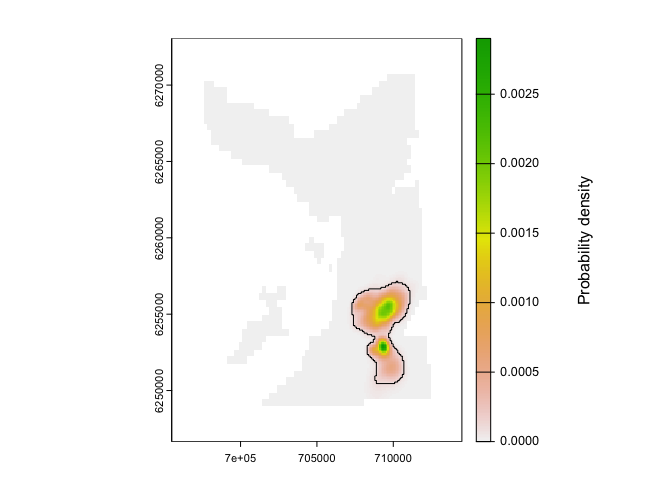
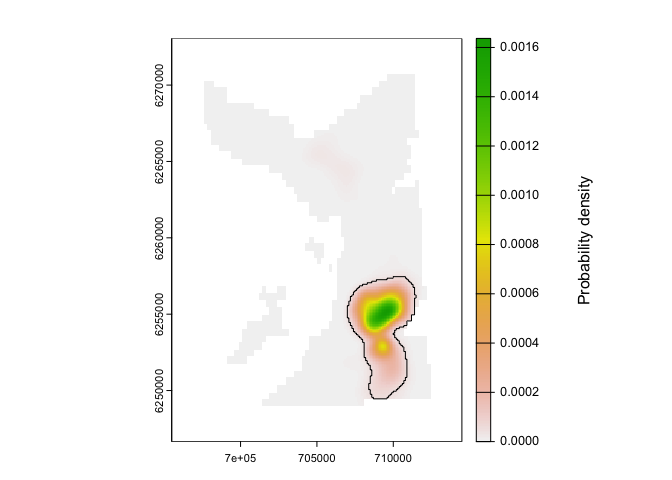
Speed up README

diff --git a/README.md b/README.md
@@ -353,7 +353,7 @@ xinit = simulate_states_init(map             = env_init,
                              model_move      = model_move, 
                              datasets        = datasets_fwd,
                              model_obs_types = model_obs_types,
-                             n_particle      = 20_000, 
+                             n_particle      = 2000, 
                              direction       = "forward", 
                              output          = "Vector");
 
@@ -373,7 +373,7 @@ xinit = simulate_states_init(map             = env_init,
                              model_move      = model_move, 
                              datasets        = datasets_bwd,
                              model_obs_types = model_obs_types,
-                             n_particle      = 20_000, 
+                             n_particle      = 2000, 
                              direction       = "backward", 
                              output          = "Vector");
 
@@ -390,60 +390,123 @@ The filter returns a `NamedTuple` that defines the time steps of the
 simulation, the simulated `State`s and other algorithm diagnostics.
 
 ``` julia
-fwd 
-#> Patter.Particles(StateXY[StateXY(45.86025619506836, 709442.1497468759, 6.253006886936354e6) StateXY(44.46761703491211, 709332.1390635285, 6.252801146476332e6) … StateXY(161.7117919921875, 708114.3959652106, 6.255127655122086e6) StateXY(181.935302734375, 708769.6451302449, 6.255796490835802e6); StateXY(84.4729232788086, 709242.1497468759, 6.253506886936354e6) StateXY(68.53315734863281, 709242.1423982539, 6.253292068158658e6) … StateXY(194.80943298339844, 707801.5033526948, 6.255366971646948e6) StateXY(167.0137939453125, 708604.2128538049, 6.255100657586215e6); … ; StateXY(52.994747161865234, 709242.1497468759, 6.253006886936354e6) StateXY(47.834678649902344, 709259.8437022136, 6.252899700530086e6) … StateXY(184.45875549316406, 708772.2614253716, 6.255958962564314e6) StateXY(161.7117919921875, 708099.0028210192, 6.25512253584319e6); StateXY(55.42852783203125, 709442.1497468759, 6.253406886936354e6) StateXY(46.084407806396484, 709122.7430863595, 6.252603630971435e6) … StateXY(180.6695556640625, 708052.3013590107, 6.255278958512679e6) StateXY(198.59591674804688, 708290.0902363085, 6.25579496191721e6)], 720×4 DataFrame
-#>  Row │ timestep  timestamp            ess        maxlp
-#>      │ Int64     DateTime             Float64    Float64
-#> ─────┼──────────────────────────────────────────────────────
-#>    1 │        1  2016-03-17T01:50:00   8632.84     -4.93421
-#>    2 │        2  2016-03-17T01:52:00   4290.88     -9.84869
-#>    3 │        3  2016-03-17T01:54:00   2529.52    -14.7808
-#>    4 │        4  2016-03-17T01:56:00   1656.77    -19.7892
-#>    5 │        5  2016-03-17T01:58:00    990.413   -24.9454
-#>    6 │        6  2016-03-17T02:00:00  13476.5      -4.89552
-#>    7 │        7  2016-03-17T02:02:00   8417.5      -9.51912
-#>    8 │        8  2016-03-17T02:04:00   5701.01    -14.9398
-#>   ⋮  │    ⋮               ⋮               ⋮          ⋮
-#>  714 │      714  2016-03-18T01:36:00   5437.28   -102.667
-#>  715 │      715  2016-03-18T01:38:00   4906.03   -107.348
-#>  716 │      716  2016-03-18T01:40:00   4427.57   -112.013
-#>  717 │      717  2016-03-18T01:42:00   4007.73   -116.672
-#>  718 │      718  2016-03-18T01:44:00   3705.9    -121.407
-#>  719 │      719  2016-03-18T01:46:00   3437.94   -126.078
-#>  720 │      720  2016-03-18T01:48:00   3176.48   -130.749
-#>                                             705 rows omitted, 1×6 DataFrame
-#>  Row │ timestamp                routine          n_particle  n_iter  convergen ⋯
-#>      │ DateTime                 String           Int64       Int64   Bool      ⋯
-#> ─────┼──────────────────────────────────────────────────────────────────────────
-#>    1 │ 2025-02-12T22:12:47.147  filter: forward       20000       1         tr ⋯
-#>                                                                2 columns omitted)
-bwd
-#> Patter.Particles(StateXY[StateXY(49.4275016784668, 709324.1163580867, 6.253028124107477e6) StateXY(68.53315734863281, 709241.3948847565, 6.253342095053049e6) … StateXY(138.89321899414062, 706722.7448082464, 6.249915966639847e6) StateXY(173.4532470703125, 708642.1497468759, 6.256906886936354e6); StateXY(41.503028869628906, 709585.2438444953, 6.2528651300111655e6) StateXY(74.88350677490234, 709036.702483497, 6.25307183254941e6) … StateXY(191.70333862304688, 708767.7636548029, 6.256542599757547e6) StateXY(158.78671264648438, 710142.1497468759, 6.269206886936354e6); … ; StateXY(80.03239440917969, 709130.1679870245, 6.253335135064113e6) StateXY(49.4275016784668, 709373.6902113371, 6.253015510400326e6) … StateXY(156.60055541992188, 708295.4359693856, 6.255025663692517e6) StateXY(186.96072387695312, 708342.1497468759, 6.267806886936354e6); StateXY(68.53315734863281, 709260.0354130833, 6.25330259580512e6) StateXY(52.982757568359375, 709357.0268316997, 6.25310554681857e6) … StateXY(175.41598510742188, 708388.3795827446, 6.266007418013366e6) StateXY(189.5762176513672, 708542.1497468759, 6.267606886936354e6)], 720×4 DataFrame
+# Forward run outputs
+fwd.states
+#> 1000×720 Matrix{StateXY}:
+#>  StateXY(45.8829, 7.09342e5, 6.25291e6)  …  StateXY(188.847, 708556.0, 6.25564e6)
+#>  StateXY(66.5209, 7.09142e5, 6.25311e6)     StateXY(197.758, 7.08354e5, 6.25569e6)
+#>  StateXY(41.503, 7.09542e5, 6.25291e6)      StateXY(148.489, 7.08357e5, 6.25413e6)
+#>  StateXY(83.2153, 7.09042e5, 6.25321e6)     StateXY(185.685, 7.07762e5, 6.25459e6)
+#>  StateXY(36.0976, 7.09742e5, 6.25271e6)     StateXY(156.188, 707140.0, 6.25435e6)
+#>  StateXY(139.183, 7.08642e5, 6.25351e6)  …  StateXY(154.859, 7.08873e5, 6.25503e6)
+#>  StateXY(46.8558, 7.08942e5, 6.25251e6)     StateXY(194.684, 7.07544e5, 6.25516e6)
+#>  StateXY(46.5354, 7.09242e5, 6.25281e6)     StateXY(193.147, 7.08309e5, 6.25625e6)
+#>  StateXY(58.245, 7.09042e5, 6.25291e6)      StateXY(191.794, 7.07576e5, 6.25459e6)
+#>  StateXY(84.4729, 7.09242e5, 6.25351e6)     StateXY(143.758, 7.0913e5, 6.25544e6)
+#>  ⋮                                       ⋱  
+#>  StateXY(60.0933, 7.09342e5, 6.25331e6)     StateXY(157.43, 708992.0, 6.25539e6)
+#>  StateXY(68.5332, 7.09242e5, 6.25331e6)     StateXY(179.343, 7.07264e5, 6.25473e6)
+#>  StateXY(55.2068, 7.09642e5, 6.25361e6)     StateXY(199.453, 707926.0, 6.25602e6)
+#>  StateXY(56.538, 7.09342e5, 6.25321e6)      StateXY(186.857, 7.08449e5, 6.25551e6)
+#>  StateXY(45.8603, 7.09442e5, 6.25301e6)  …  StateXY(162.852, 7.08859e5, 6.25523e6)
+#>  StateXY(53.0317, 7.09142e5, 6.25291e6)     StateXY(168.835, 7.08599e5, 6.25697e6)
+#>  StateXY(51.6534, 7.09442e5, 6.25331e6)     StateXY(192.736, 7.0906e5, 6.25679e6)
+#>  StateXY(45.8829, 7.09342e5, 6.25291e6)     StateXY(151.282, 7.08221e5, 6.25496e6)
+#>  StateXY(59.7652, 7.09142e5, 6.25301e6)     StateXY(135.019, 7.0876e5, 6.25355e6)
+fwd.diagnostics
+#> 720×4 DataFrame
 #>  Row │ timestep  timestamp            ess       maxlp
 #>      │ Int64     DateTime             Float64   Float64
 #> ─────┼────────────────────────────────────────────────────
-#>    1 │        1  2016-03-17T01:50:00    629.83  -36.0651
-#>    2 │        2  2016-03-17T01:52:00   1039.02  -31.1403
-#>    3 │        3  2016-03-17T01:54:00   1812.93  -25.9866
-#>    4 │        4  2016-03-17T01:56:00   2935.19  -20.2427
-#>    5 │        5  2016-03-17T01:58:00   4716.56  -14.6123
-#>    6 │        6  2016-03-17T02:00:00   7527.78   -9.60555
-#>    7 │        7  2016-03-17T02:02:00   9471.85   -4.54043
-#>    8 │        8  2016-03-17T02:04:00    663.9   -39.7029
+#>    1 │        1  2016-03-17T01:50:00   871.187   -4.93421
+#>    2 │        2  2016-03-17T01:52:00  1271.23    -4.91272
+#>    3 │        3  2016-03-17T01:54:00   778.974   -9.82767
+#>    4 │        4  2016-03-17T01:56:00   951.343   -4.55033
+#>    5 │        5  2016-03-17T01:58:00   968.929   -4.91832
+#>    6 │        6  2016-03-17T02:00:00  1318.74    -4.90221
+#>    7 │        7  2016-03-17T02:02:00   823.489   -9.58653
+#>    8 │        8  2016-03-17T02:04:00   933.039   -4.92097
 #>   ⋮  │    ⋮               ⋮              ⋮          ⋮
-#>  714 │      714  2016-03-18T01:36:00   9878.34  -32.6128
-#>  715 │      715  2016-03-18T01:38:00  10266.6   -27.9485
-#>  716 │      716  2016-03-18T01:40:00  11050.2   -23.2906
-#>  717 │      717  2016-03-18T01:42:00  12267.2   -18.6321
-#>  718 │      718  2016-03-18T01:44:00  13956.5   -13.974
-#>  719 │      719  2016-03-18T01:46:00  16005.6    -9.31601
-#>  720 │      720  2016-03-18T01:48:00  18811.5    -4.658
-#>                                           705 rows omitted, 1×6 DataFrame
+#>  714 │      714  2016-03-18T01:36:00  1358.2    -37.2712
+#>  715 │      715  2016-03-18T01:38:00  1242.68   -41.9696
+#>  716 │      716  2016-03-18T01:40:00  1115.1    -46.6278
+#>  717 │      717  2016-03-18T01:42:00  1008.86   -51.2927
+#>  718 │      718  2016-03-18T01:44:00   930.228  -55.9539
+#>  719 │      719  2016-03-18T01:46:00  1898.44    -4.658
+#>  720 │      720  2016-03-18T01:48:00  1783.25    -9.31601
+#>                                           705 rows omitted
+fwd.callstats
+#> 1×6 DataFrame
+#>  Row │ timestamp                routine          n_particle  n_iter  convergen ⋯
+#>      │ DateTime                 String           Int64       Int64   Bool      ⋯
+#> ─────┼──────────────────────────────────────────────────────────────────────────
+#>    1 │ 2025-02-12T22:37:48.450  filter: forward        2000       1         tr ⋯
+#>                                                                2 columns omitted
+fwd.callstats.convergence
+#> 1-element Vector{Bool}:
+#>  1
+fwd.callstats.time
+#> 1-element Vector{Float64}:
+#>  0.648
+
+# Backward run outputs
+bwd.states
+#> 1000×720 Matrix{StateXY}:
+#>  StateXY(1.85675e-314, 2.51161e-314, 2.75044e-314)  …  StateXY(176.919, 7.07942e5, 6.26601e6)
+#>  StateXY(2.17775e-314, 1.97536e-317, 0.0)              StateXY(178.939, 7.09242e5, 6.26781e6)
+#>  StateXY(-1.2162e6, -1.21608e6, -1.21596e6)            StateXY(180.867, 7.09042e5, 6.26631e6)
+#>  StateXY(-1.21584e6, -1.21572e6, -1.2156e6)            StateXY(132.345, 7.11142e5, 6.27061e6)
+#>  StateXY(-1.21548e6, -1.21536e6, -1.21524e6)           StateXY(149.448, 7.09242e5, 6.25831e6)
+#>  StateXY(-1.21512e6, -1.215e6, -1.21488e6)          …  StateXY(155.992, 7.09842e5, 6.26861e6)
+#>  StateXY(-1.21476e6, -1.21464e6, -1.21452e6)           StateXY(191.569, 7.07442e5, 6.26681e6)
+#>  StateXY(-1.2144e6, -1.21428e6, -1.21416e6)            StateXY(178.48, 7.07342e5, 6.26711e6)
+#>  StateXY(-1.21404e6, -1.21392e6, -1.2138e6)            StateXY(183.963, 7.07542e5, 6.26721e6)
+#>  StateXY(-1.21368e6, -1.21356e6, -1.21344e6)           StateXY(144.53, 7.06742e5, 6.25011e6)
+#>  ⋮                                                  ⋱  
+#>  StateXY(-860160.0, -860040.0, -859920.0)              StateXY(162.061, 7.07942e5, 6.26531e6)
+#>  StateXY(-859800.0, -859680.0, -859560.0)              StateXY(190.686, 7.08342e5, 6.26681e6)
+#>  StateXY(-859440.0, -859320.0, -859200.0)              StateXY(186.824, 7.08642e5, 6.25571e6)
+#>  StateXY(-859080.0, -858960.0, -858840.0)              StateXY(167.287, 7.08242e5, 6.26821e6)
+#>  StateXY(-858720.0, -858600.0, -858480.0)           …  StateXY(188.622, 7.08842e5, 6.25691e6)
+#>  StateXY(-858360.0, -858240.0, -858120.0)              StateXY(191.973, 7.06142e5, 6.24931e6)
+#>  StateXY(-858000.0, -857880.0, -857760.0)              StateXY(181.723, 7.08342e5, 6.25641e6)
+#>  StateXY(-857640.0, -857520.0, -857400.0)              StateXY(186.239, 7.08642e5, 6.26641e6)
+#>  StateXY(-857280.0, -857160.0, -857040.0)              StateXY(148.615, 7.04442e5, 6.24911e6)
+bwd.diagnostics
+#> 720×4 DataFrame
+#>  Row │ timestep  timestamp            ess       maxlp
+#>      │ Int64     DateTime             Float64   Float64
+#> ─────┼────────────────────────────────────────────────────
+#>    1 │        1  2016-03-17T01:50:00   NaN      NaN
+#>    2 │        2  2016-03-17T01:52:00   NaN      NaN
+#>    3 │        3  2016-03-17T01:54:00   NaN      NaN
+#>    4 │        4  2016-03-17T01:56:00   NaN      NaN
+#>    5 │        5  2016-03-17T01:58:00   NaN      NaN
+#>    6 │        6  2016-03-17T02:00:00   NaN      NaN
+#>    7 │        7  2016-03-17T02:02:00   NaN      NaN
+#>    8 │        8  2016-03-17T02:04:00   NaN      NaN
+#>   ⋮  │    ⋮               ⋮              ⋮          ⋮
+#>  714 │      714  2016-03-18T01:36:00  1025.64   -32.6163
+#>  715 │      715  2016-03-18T01:38:00  1062.47   -27.9509
+#>  716 │      716  2016-03-18T01:40:00  1144.41   -23.2914
+#>  717 │      717  2016-03-18T01:42:00  1259.77   -18.6324
+#>  718 │      718  2016-03-18T01:44:00  1435.05   -13.974
+#>  719 │      719  2016-03-18T01:46:00  1625.19    -9.31601
+#>  720 │      720  2016-03-18T01:48:00  1884.65    -4.658
+#>                                           705 rows omitted
+bwd.callstats
+#> 1×6 DataFrame
 #>  Row │ timestamp                routine           n_particle  n_iter  converge ⋯
 #>      │ DateTime                 String            Int64       Int64   Bool     ⋯
 #> ─────┼──────────────────────────────────────────────────────────────────────────
-#>    1 │ 2025-02-12T22:12:49.063  filter: backward       20000       1         t ⋯
-#>                                                                2 columns omitted)
+#>    1 │ 2025-02-12T22:37:49.249  filter: backward        2000       1        fa ⋯
+#>                                                                2 columns omitted
+bwd.callstats.convergence
+#> 1-element Vector{Bool}:
+#>  0
+bwd.callstats.time
+#> 1-element Vector{Float64}:
+#>  0.352
 ```
 
 ## Particle smoother
@@ -460,34 +523,68 @@ smo = particle_smoother_two_filter(timeline   = timeline,
                                    xfwd       = fwd.states[1:n_particle, :],
                                    xbwd       = bwd.states[1:n_particle, :],
                                    model_move = model_move,
-                                   n_sim      = 100);
-smo
-#> Patter.Particles(StateXY[StateXY(49.4275016784668, 709324.1163580867, 6.253028124107477e6) StateXY(91.54701232910156, 709078.0004575436, 6.253311913556286e6) … StateXY(150.06092834472656, 708160.3289271451, 6.254332516569155e6) StateXY(181.935302734375, 708769.6451302449, 6.255796490835802e6); StateXY(41.503028869628906, 709585.2438444953, 6.2528651300111655e6) StateXY(63.35368728637695, 709214.4805125415, 6.2532249261305975e6) … StateXY(198.8185272216797, 708183.017069019, 6.255871241093533e6) StateXY(167.0137939453125, 708604.2128538049, 6.255100657586215e6); … ; StateXY(48.40016174316406, 709163.4728786222, 6.25271263937561e6) StateXY(45.8829460144043, 709357.9380403345, 6.252939584043968e6) … StateXY(166.38294982910156, 708444.2746647486, 6.2551082914978415e6) StateXY(183.91612243652344, 707468.1932861817, 6.254355097287358e6); StateXY(47.79129409790039, 709430.136972388, 6.253122266539449e6) StateXY(68.53315734863281, 709258.605438284, 6.253340363569799e6) … StateXY(198.90406799316406, 707831.8869685325, 6.255975063517972e6) StateXY(185.88182067871094, 708081.4631690378, 6.255362176468334e6)], 720×4 DataFrame
+                                   vmap       = nothing,
+                                   n_sim      = 100, 
+                                   cache      = true);
+
+# Smooth outputs
+smo.states
+#> 750×720 Matrix{StateXY}:
+#>  StateXY(1.85675e-314, 2.51161e-314, 2.75044e-314)  …  StateXY(188.847, 708556.0, 6.25564e6)
+#>  StateXY(2.17775e-314, 1.97536e-317, 0.0)              StateXY(197.758, 7.08354e5, 6.25569e6)
+#>  StateXY(-1.2162e6, -1.21608e6, -1.21596e6)            StateXY(148.489, 7.08357e5, 6.25413e6)
+#>  StateXY(-1.21584e6, -1.21572e6, -1.2156e6)            StateXY(185.685, 7.07762e5, 6.25459e6)
+#>  StateXY(-1.21548e6, -1.21536e6, -1.21524e6)           StateXY(156.188, 707140.0, 6.25435e6)
+#>  StateXY(-1.21512e6, -1.215e6, -1.21488e6)          …  StateXY(154.859, 7.08873e5, 6.25503e6)
+#>  StateXY(-1.21476e6, -1.21464e6, -1.21452e6)           StateXY(194.684, 7.07544e5, 6.25516e6)
+#>  StateXY(-1.2144e6, -1.21428e6, -1.21416e6)            StateXY(193.147, 7.08309e5, 6.25625e6)
+#>  StateXY(-1.21404e6, -1.21392e6, -1.2138e6)            StateXY(191.794, 7.07576e5, 6.25459e6)
+#>  StateXY(-1.21368e6, -1.21356e6, -1.21344e6)           StateXY(143.758, 7.0913e5, 6.25544e6)
+#>  ⋮                                                  ⋱  
+#>  StateXY(-950160.0, -950040.0, -949920.0)              StateXY(156.14, 7.07771e5, 6.2541e6)
+#>  StateXY(-949800.0, -949680.0, -949560.0)              StateXY(188.297, 7.07872e5, 6.25514e6)
+#>  StateXY(-949440.0, -949320.0, -949200.0)              StateXY(147.888, 7.07284e5, 6.25544e6)
+#>  StateXY(-949080.0, -948960.0, -948840.0)              StateXY(145.139, 7.08266e5, 6.2545e6)
+#>  StateXY(-948720.0, -948600.0, -948480.0)           …  StateXY(175.94, 7.07905e5, 6.25489e6)
+#>  StateXY(-948360.0, -948240.0, -948120.0)              StateXY(197.11, 7.07837e5, 6.25553e6)
+#>  StateXY(-948000.0, -947880.0, -947760.0)              StateXY(184.627, 7.08884e5, 6.25712e6)
+#>  StateXY(-947640.0, -947520.0, -947400.0)              StateXY(188.208, 7.0792e5, 6.25527e6)
+#>  StateXY(-947280.0, -947160.0, -947040.0)              StateXY(137.22, 7.08909e5, 6.25457e6)
+smo.diagnostics
+#> 720×4 DataFrame
 #>  Row │ timestep  timestamp            ess      maxlp
 #>      │ Int64     DateTime             Float64  Float64
 #> ─────┼─────────────────────────────────────────────────
 #>    1 │        1  2016-03-17T01:50:00  750.0        NaN
-#>    2 │        2  2016-03-17T01:52:00  661.27       NaN
-#>    3 │        3  2016-03-17T01:54:00  601.97       NaN
-#>    4 │        4  2016-03-17T01:56:00  406.421      NaN
-#>    5 │        5  2016-03-17T01:58:00  667.998      NaN
-#>    6 │        6  2016-03-17T02:00:00  639.354      NaN
-#>    7 │        7  2016-03-17T02:02:00  444.735      NaN
-#>    8 │        8  2016-03-17T02:04:00  626.99       NaN
+#>    2 │        2  2016-03-17T01:52:00  NaN          NaN
+#>    3 │        3  2016-03-17T01:54:00  NaN          NaN
+#>    4 │        4  2016-03-17T01:56:00  NaN          NaN
+#>    5 │        5  2016-03-17T01:58:00  NaN          NaN
+#>    6 │        6  2016-03-17T02:00:00  NaN          NaN
+#>    7 │        7  2016-03-17T02:02:00  NaN          NaN
+#>    8 │        8  2016-03-17T02:04:00  NaN          NaN
 #>   ⋮  │    ⋮               ⋮              ⋮        ⋮
-#>  714 │      714  2016-03-18T01:36:00  154.892      NaN
-#>  715 │      715  2016-03-18T01:38:00  142.048      NaN
-#>  716 │      716  2016-03-18T01:40:00  150.02       NaN
-#>  717 │      717  2016-03-18T01:42:00  160.671      NaN
-#>  718 │      718  2016-03-18T01:44:00  189.521      NaN
-#>  719 │      719  2016-03-18T01:46:00  160.545      NaN
+#>  714 │      714  2016-03-18T01:36:00  118.385      NaN
+#>  715 │      715  2016-03-18T01:38:00  127.608      NaN
+#>  716 │      716  2016-03-18T01:40:00  143.037      NaN
+#>  717 │      717  2016-03-18T01:42:00  136.04       NaN
+#>  718 │      718  2016-03-18T01:44:00  148.45       NaN
+#>  719 │      719  2016-03-18T01:46:00  150.694      NaN
 #>  720 │      720  2016-03-18T01:48:00  750.0        NaN
-#>                                        705 rows omitted, 1×6 DataFrame
+#>                                        705 rows omitted
+smo.callstats
+#> 1×6 DataFrame
 #>  Row │ timestamp                routine               n_particle  n_iter   con ⋯
 #>      │ DateTime                 String                Int64       Float64  Boo ⋯
 #> ─────┼──────────────────────────────────────────────────────────────────────────
-#>    1 │ 2025-02-12T22:12:51.120  smoother: two-filter         750      NaN      ⋯
-#>                                                                2 columns omitted)
+#>    1 │ 2025-02-12T22:37:50.663  smoother: two-filter         750      NaN      ⋯
+#>                                                                2 columns omitted
+smo.callstats.convergence
+#> 1-element Vector{Bool}:
+#>  0
+smo.callstats.time
+#> 1-element Vector{Float64}:
+#>  16.03
 ```
 
 # Mapping
@@ -516,6 +613,7 @@ ud <- map_dens(.map     = map,
                .coord   = smo$states,
                .sigma   = bw.h, 
                .verbose = FALSE)$ud
+#> Warning: 84660 points were rejected as lying outside the specified window
 
 # Add home range
 map_hr_home(ud, .add = TRUE)
